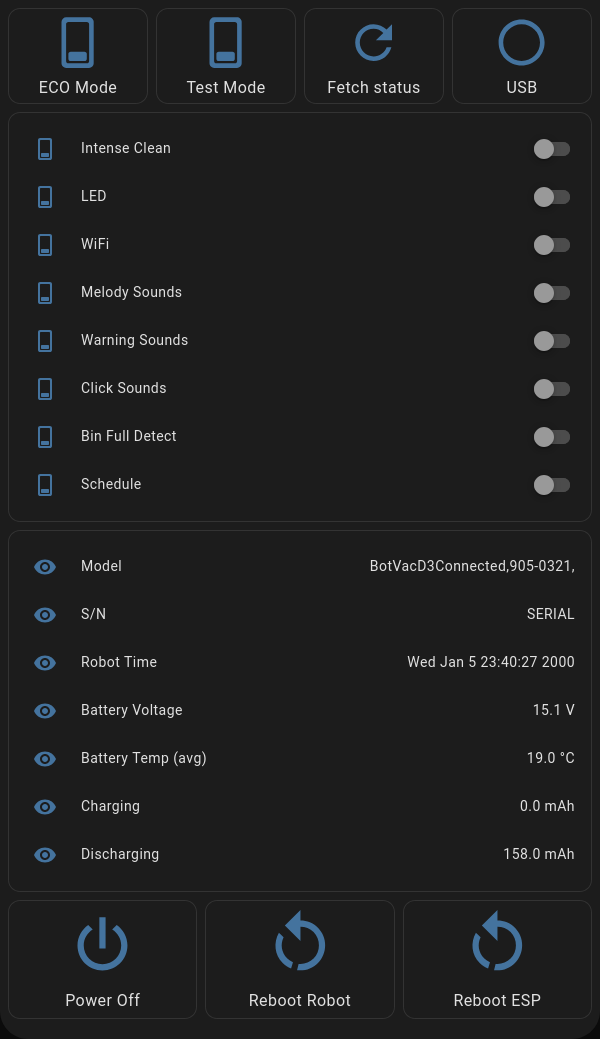
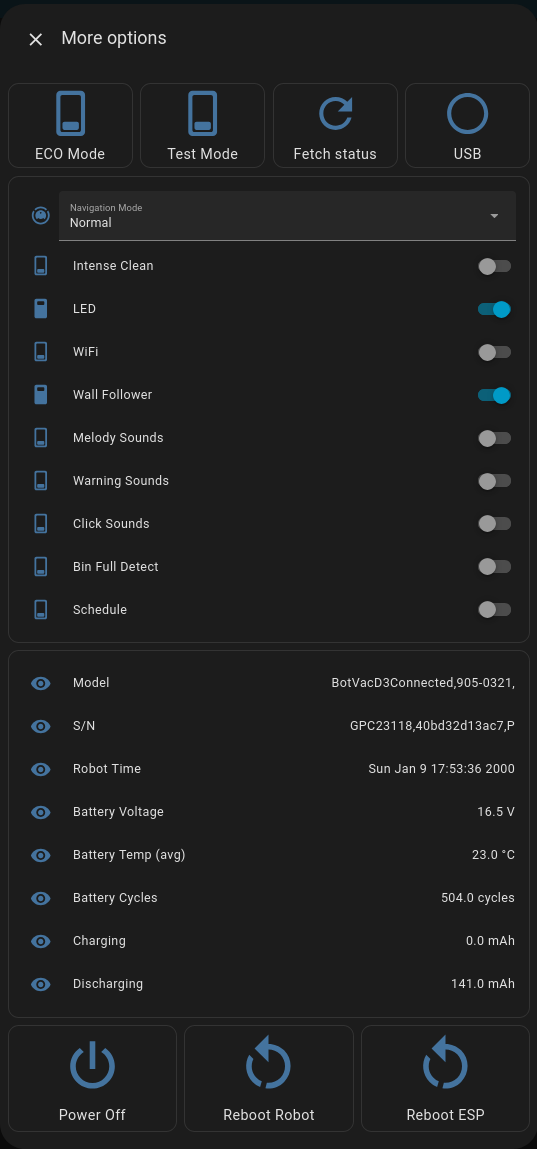
changes to readme

diff --git a/README.md b/README.md
@@ -20,8 +20,10 @@ Main card | Settings View
 **I would like to support all robots where an debug interface, or other controls, is accessible, but since I only have a D3, I can only test on that one. If you have another robot, please open an discussion so we can verify that it works or add support for it!**
 
 As far as I know, only the D3, D4, D5, D7 and D7 has the firmware `4.5.3` and currenly the config is based on that so the robots that should work with that firmware is as follows:
-- Confirmed working: **D3**
-- Should work, need confirmation: **D4, D5, D6, D7** 
+- Confirmed working: **D3, D5, D7**
+- Should work, need confirmation: **D4, D6** 
+
+If you have another Neato robot, please open an issue here on github so we can add support for it, however we might need your help to know what needs to change!
 
 **Trickier robots**
 - D8 (probably D9, D10) - These robots use a compleatly different board, chip and firmware, and because the debug interface seams to be behind a password lock, this cannot be controlled directly.
@@ -29,66 +31,36 @@ As far as I know, only the D3, D4, D5, D7 and D7 has the firmware `4.5.3` and cu
 #### How-to connect
 Sadly to be able to repair your neato vacuum you **need to access an USB port or debug pins** to be able to connect to the debug interface. The current methods are:
 
-Drill a hole in the bumper to access the debug port | Open the robot and solder wires to the debug pins
+Drill a hole in the bumper to access the debug port | Open the robot and bend pins or solder to debug connector
 :-------------------------:|:-------------------------:
-![cables-via-bumper](./pics/d3/cables-via-bumper.jpg) |  ![pcb](./pics/d3/pcb-top-annotated.png)
+![cables-via-bumper](./pics/d3/cables-via-bumper.jpg) ![d3-install-outside](./pics/installs/d3-install-outside.png) |  ![d7-install](./pics/installs/d7-install-serial.png) ![d7-install-esp](./pics/installs/d7-install-esp.png)
 
 I understand these methods are hard or destructive, I am currently investigating the possibility of accessing the debug interface using less extreme methods, however so far I have come up empty handed.
 
+### Getting started!
+
+First of all you should start thinking about how you want to keep your robot connected, but if you don't want to commit to opening or drilling an hole in the bumper yet, you can always take the bumper off and connect an esp device to the robot and just run it via Home Assistant. If you don't have an Home Assistant installation you can try to control it via the [web server interface](./ha-images.md#webserver-interface).
+
+TODO:
+1. setup hacs
+    1. esphome
+    2. browser-mod
+    3. button-card
+2. Esphome config, build for your device
+    - set keys correctly, etc
+3. Ha card, set entityid to the same
+4. DONE, control your vacuum via HA!
 
 
+### Acknowledgements
+
+- @Fabian Ullrich, Jiska Classen, Johannes Eger and Matthias Hollick from Secure Mobile Networking Lab
+    - [Security and Privacy for IoT Ecosystems](https://tuprints.ulb.tu-darmstadt.de/handle/tuda/4937)
+    - [Vacuums in the Cloud:
+Analyzing Security in a Hardened IoT Ecosystem](https://www.usenix.org/system/files/woot19-paper_ullrich.pdf)
+    - And all of their work on these robots, including talks etc!
+- [@jeroenterheerdt](https://github.com/jeroenterheerdt) for testing, reviewing and the original [neato-serial](https://github.com/jeroenterheerdt/neato-serial)
+- [@algaen](https://github.com/algaen) for the info about the D8 (D9, D10?) robots
+- [@tomwj](https://github.com/tomwj) for testing and pictures installing it internally in a D7
 
 
-Current status; Esphome that I feel is fully functionally, a detailed guide and a config generator based on the device name I want to have ready by friday. I have updated my robot back to firmware `4.5.3` and with process found a lot of things, was able to get the main robot file for the old version and have found alot of hidden commands. The current esphome.yaml and ha-dashboard.yaml files work, just replace `espcam_test_sensor` with the id of your espdevice. I will make this easier to understand and use when I publish it fully. The pictures & other stuff also needs to be updated, working on this too!
-
-This project aims to repair the neato vacuum cleaners so they function on at least the same level as when you bought it. Currently this project is very soon in an initial MVP stage, you can start, stop cleanings, spot clean (even give an size of an area) and see general status of the robot via en esphome config over the serial debug interface. The best method to access this serial debug interface I will need to investiate, but I would say it is to drill a hole in the bumper. My hope is to make this project bigger, use ROS2 with slam_toolbox to get the floormaps. If this is a success, it will not only have no-go lines, but also zone cleaning, spot clean by selecting on the floormap and allowing more fine tune controls of the vacuum and brushspeed. The extended functionallity with floormap would need to "TestMode" to work wihtout it complaining, need to verify exactly that it will allow us to do all of this!
-
-**The published [esphome.yaml](./esphome.yaml) should work and can be tested by anyone who desires, however I will not call the esphome MVP finalized until I have tested with the latest firmware and made some minimal ui setup with nice icons etc**
-
-My findings about the Neato D3 Connected, however should be same/very similar for any Neato connected robot.
-
-I found an old Neato D3 that was broken, the left wheel didn't spin so I opened it up and realized the black cable for the left motor was not connected, it had ripped out of the JST connector. I ordered some new JST connectors since I didn't have any and because I didn't have the correct crimp I soldered an already crimped cable that I got with the set to the cable and connected it to a new JST connector. One connected back to the board it worked perfectly, ran a couple of cleanings in my apartment and it works very well, the left wheels gears is starting to wear off so I am thinking of 3d printing some new ones.
-
-When I got the robot I had firmware `4.5.3_189`, while playing around with it I reset it to factory, so I will need to upgrade it later on, however at the time of writing I don't have an USB OTG cable. Since you always can upgrade to `4.5.3_189` I will be basing this project of that version, and that is that all commands etc will be using unless otherwise noted. The factory firmware on my robot is version `3.2.0_305` and would the other other version I will mention from time to time.
-
-Here is the different firmware images availible:
-https://github.com/RobertSundling/neato-botvac
-
-I will be trying to upgrade using the self-signed certificate with a custom date, but I will probably also make a fake ntp server into this project so that you can install using the original certificate.
-
-Lets clearify a quick thing, I think this is obvious to many, but since I myself got confused lets write it down. The front of the robot is where the bumper is, back is where the charger and excuaset is. If we look at the robot from a top down view seeing in the way that the robot is going to drive forward, the right side is where the button and blinky lights are. Left is the other side.
-
-Once the bot was working, my journey began. I have split up the different parts into different documents, find them below:
-- [Setup network](./setup-network.md)
-- [Serial interface](./serial.md)
-
-[ldar-poc](./lidar-poc/) includes a small lidar proof of concept to get the lidar-data and show it. [Generated by an LLM]
-
-## Serial connection via ESPHOME
-The suspected 3.3v pin is 3.3v and I have been able to keep an esp32cam connected and running the configuration at [esphome.yaml](./esphome.yaml)
-
-The script is currently up to date and should be used on a robot with firmware `4.5.3` 
-
-Currently this is mainly a POC but I am working on making it an fully working controller for the robot. Currently the lamdba function is probably still very inefficient and needs cleanup after the LLM changed it.
-
-Look at [debug port connection](debug-port-connection.md) on how I drilled a hole to access the debug port, for this you don't even need to open the device.
-
-Stated to experiment with commands if it is possible to get the floormap stuff [experimentations](./command-experiments.md)
-The UserSettings thing is a little wierd for me, even when I toggle them, they don't always change, not sure if that is because the battery is low for me or the firmware version, but it seams to respect most of them except for WiFi, it still advertises it's AP when it is off, but coud be the older firmware! It also seams that changes take effect after an reboot, but this also needs more investigating!
-
-Currently a work in progress, currently it looks like this:
-
-Main card | Settings View
-:-------------------------:|:-------------------------:
-![ha-card](./pics/esphome/ha-card.png) |  ![ha-card-settings](./pics/esphome/ha-card-settings.png)
-
-I will add more pictures and a full demo on the full release of how it looks etc.
-
-Not everything is done yet, and of course I am very welcome to feedback! There is some slight quirks with the serial debug port, at least on the firmware `3.2.0` (I will soon have my OTG cable so I can test on the latest). If I stop a cleaning with `Clean Stop` the robot goes into a "Stop" state and it is a little tricky to get out of this state, you can either press the button on the robot OR send `SetSystemMode PowerCycle/Hibernate`. The robot does not really have a state for this, so not exactly sure how to "solve it", but I think I will listen to shen you send the "stop" command and this will then then send the command to get out of this state too, once again, needs some more experimenting!
-
-You can also send commands via an action and play sounds via an soundid. I gets errors and state every 2 sec, info about charger/battery every 30 sec and testmode/version is still a work in progress, but should work kinda? GetVerion happens when the esphome boots, but because esphome would boot before the robot, if the esphome does not restart or you send the command manually, it will say "Unavailable"
-
-I drilled a small hole into the bumper to be able to route the cables via it, added a piece of plastic so that the cables wont be squised and tried to tape the esp to where the handle part is, I got error: `UI_ERROR_DECK_DEBRIS`. I will experiment to find out where to put the esp for best results, my next try will be somehow on the back of it. The cables right now are just have put a piece of tape over the connections, but I will be soldering the wieres once I have it figured out. 
-
-![esp-on-robot](./pics/esphome/esp-on-robot.png)
-![esp-on-robot-taped-test-1](./pics/esphome/esp-on-robot-test1.png)

diff --git a/ha-images.md b/ha-images.md
@@ -1,0 +1,9 @@
+
+
+
+
+## Webserver interface
+If you want, you can also control the robot via the esphome webserver interface, this just shows all settings, the log and the buttons to do actions.
+
+![webserver-esphome](./pics/esphome/web_server.png)
+
